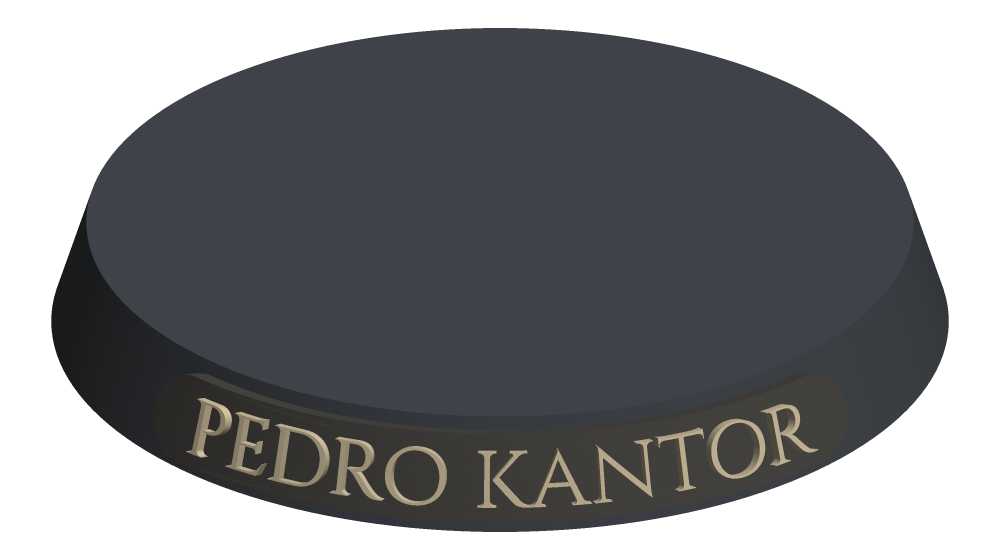
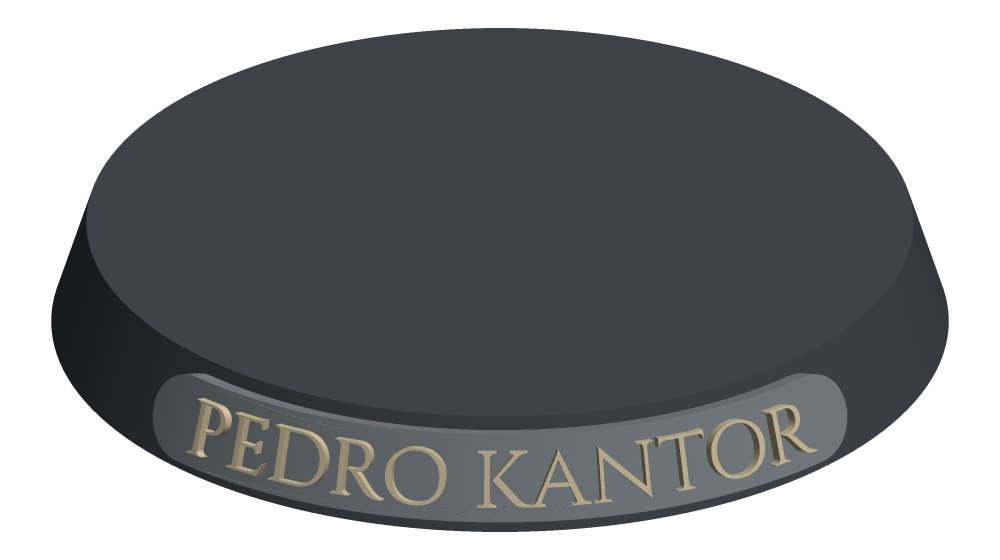
Lighten the strip to a mid stone-grey
Claude-Session: https://claude.ai/code/session_012JrbG7Mp2Je3EfBLgwBxER

Changed region(s): [[0.155, 0.6679, 0.868, 0.9411]]

diff --git a/scripts/render-readme-images.ts b/scripts/render-readme-images.ts
@@ -7,8 +7,8 @@ import { BASE_PRESETS, generateNameplate, type BaseProfile, type NameplateMesh }
 type Vec3 = [number, number, number];
 type Triangle = { vertices: [Vec3, Vec3, Vec3]; colour: Vec3 };
 
-// Painted look: dark stone-grey strip, gold raised letters.
-const PLATE_COLOUR: Vec3 = [78, 76, 72];
+// Painted look: stone-grey strip, gold raised letters.
+const PLATE_COLOUR: Vec3 = [130, 139, 143];
 const LETTER_COLOUR: Vec3 = [222, 205, 170];
 const BASE_COLOUR: Vec3 = [70, 74, 80];
 const LIGHT: Vec3 = [0.35, 0.55, 0.76];

diff --git a/web/src/Preview.tsx b/web/src/Preview.tsx
@@ -3,8 +3,8 @@ import * as THREE from "three";
 import { OrbitControls } from "three/addons/controls/OrbitControls.js";
 import type { BaseProfile, NameplateMesh } from "../../src/nameplate";
 
-// Painted look: a dark stone-grey strip with gold raised letters.
-const PLATE_COLOUR = 0x4e4c48;
+// Painted look: a stone-grey strip with gold raised letters.
+const PLATE_COLOUR = 0x828b8f;
 const LETTER_COLOUR = 0xdecdaa;
 const BASE_COLOUR = 0x464a50;
 const BASE_SEGMENTS = 160;
